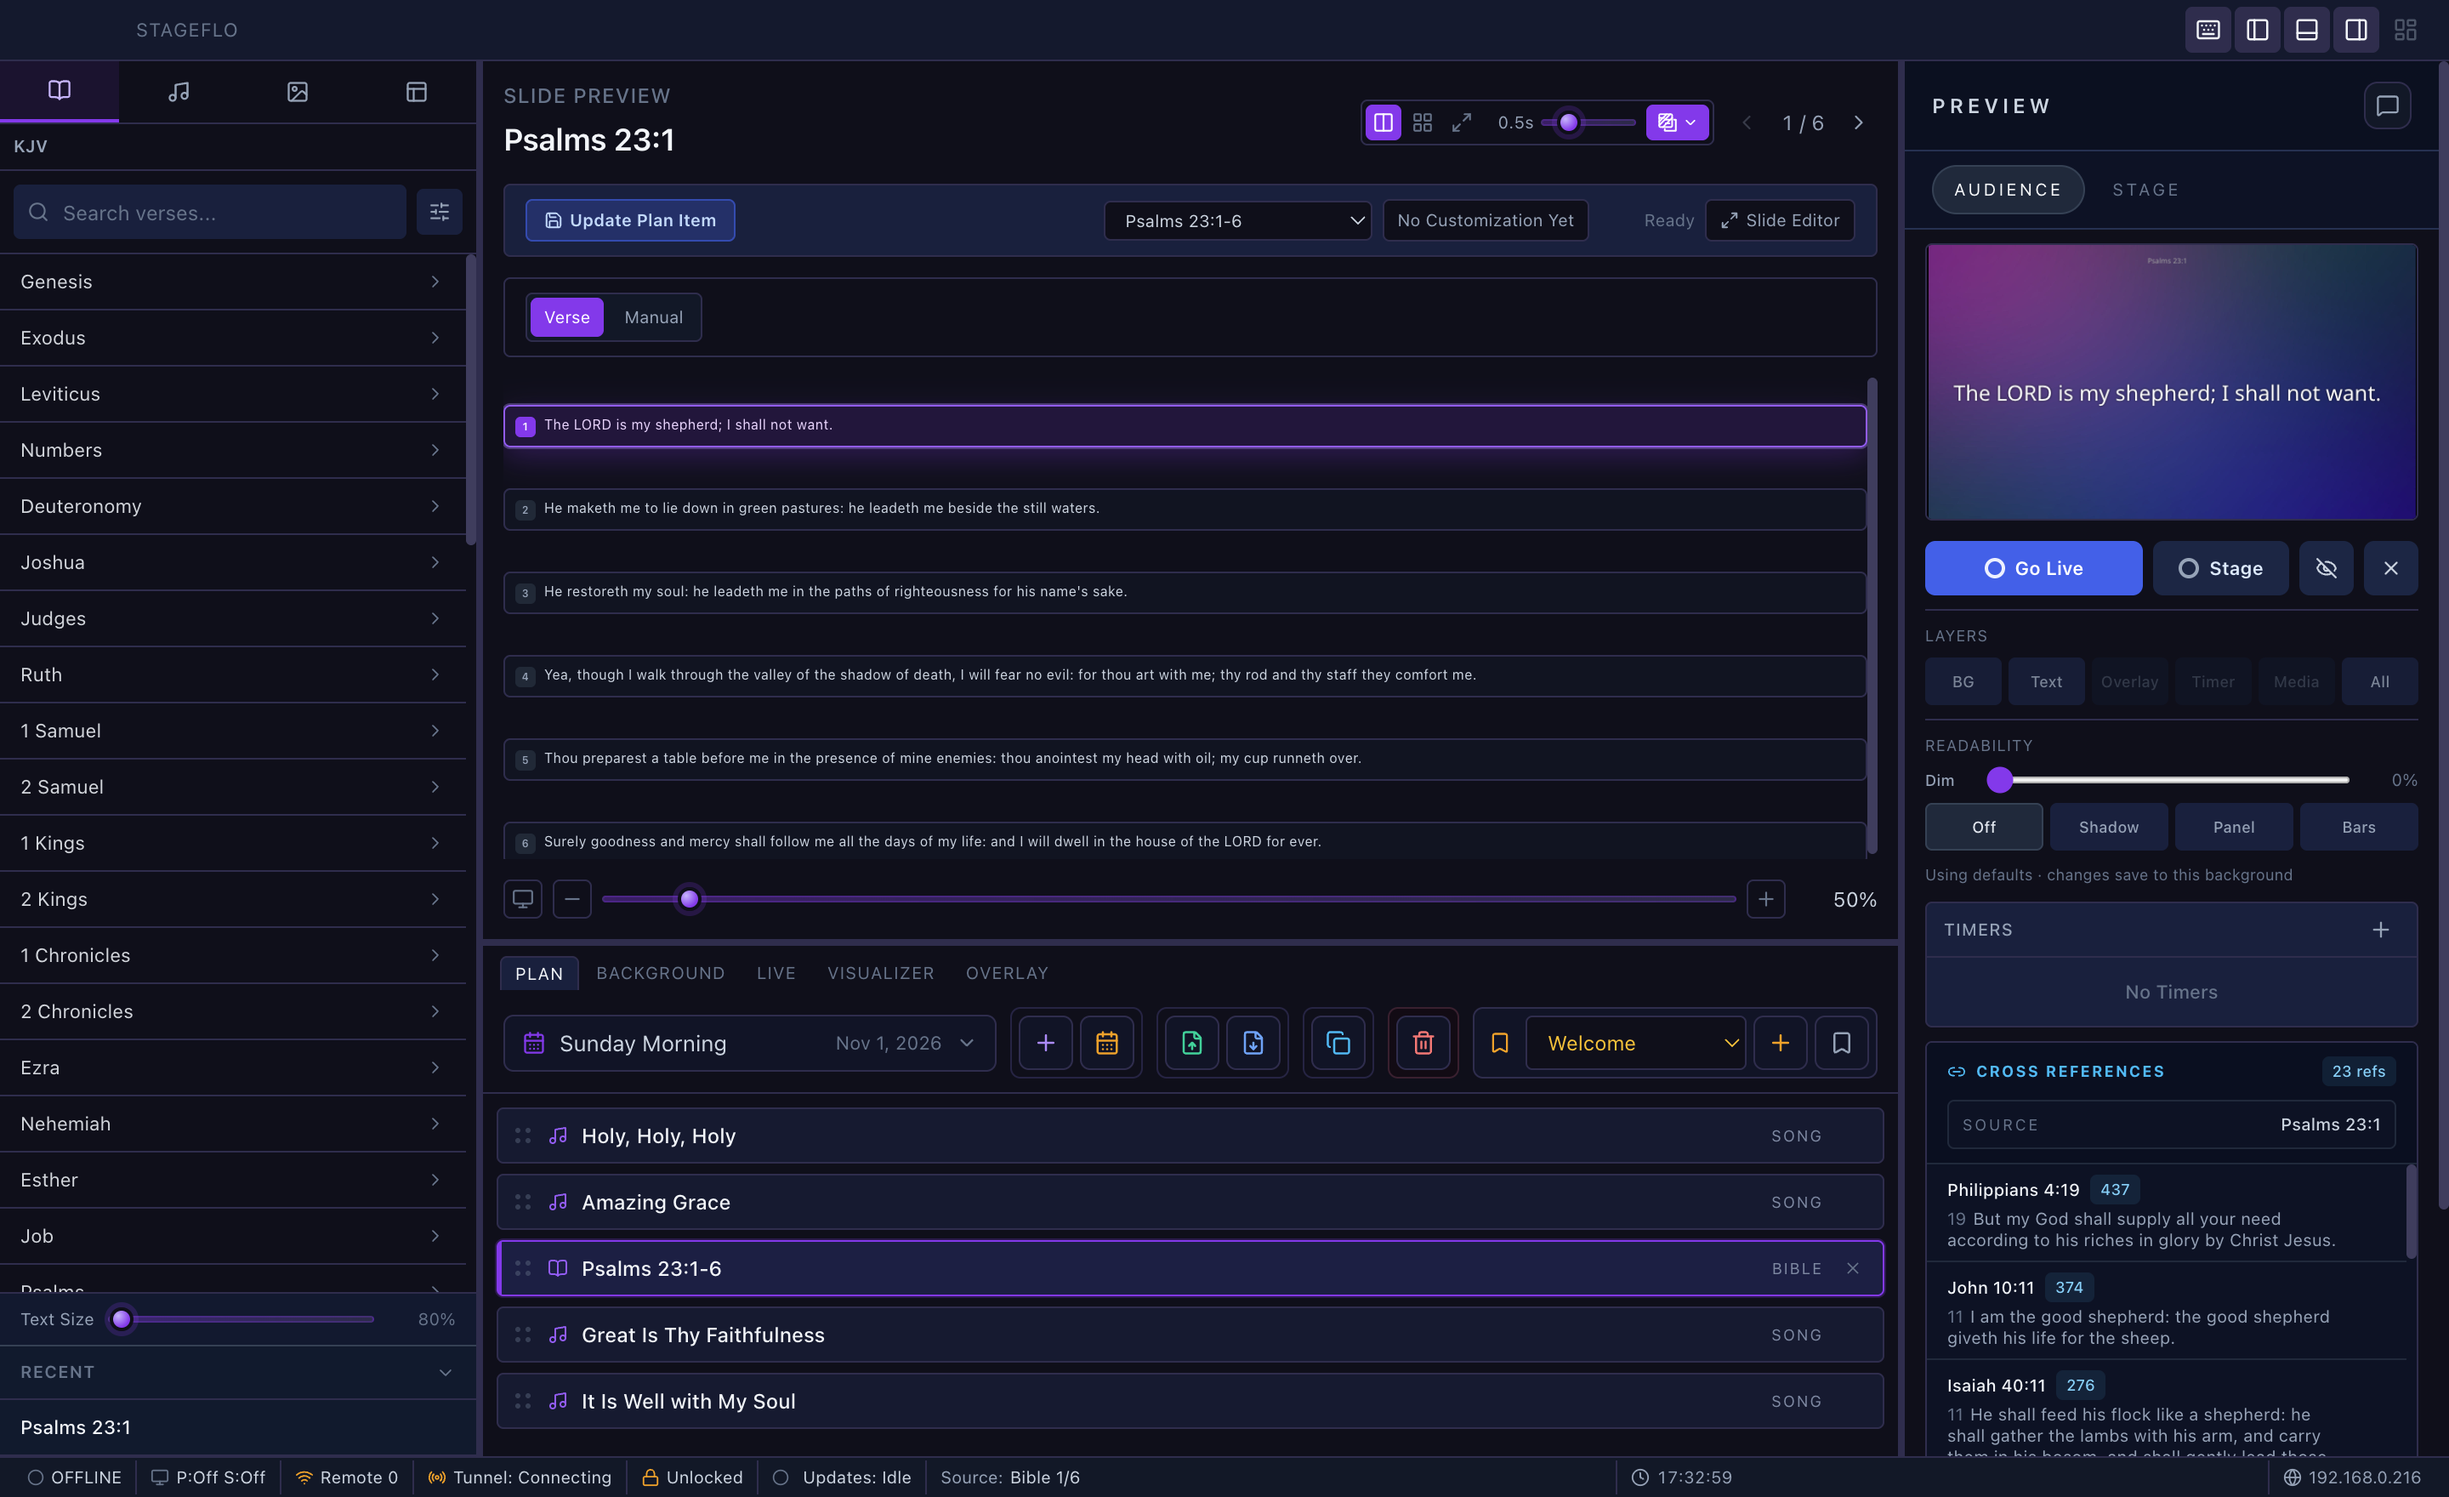
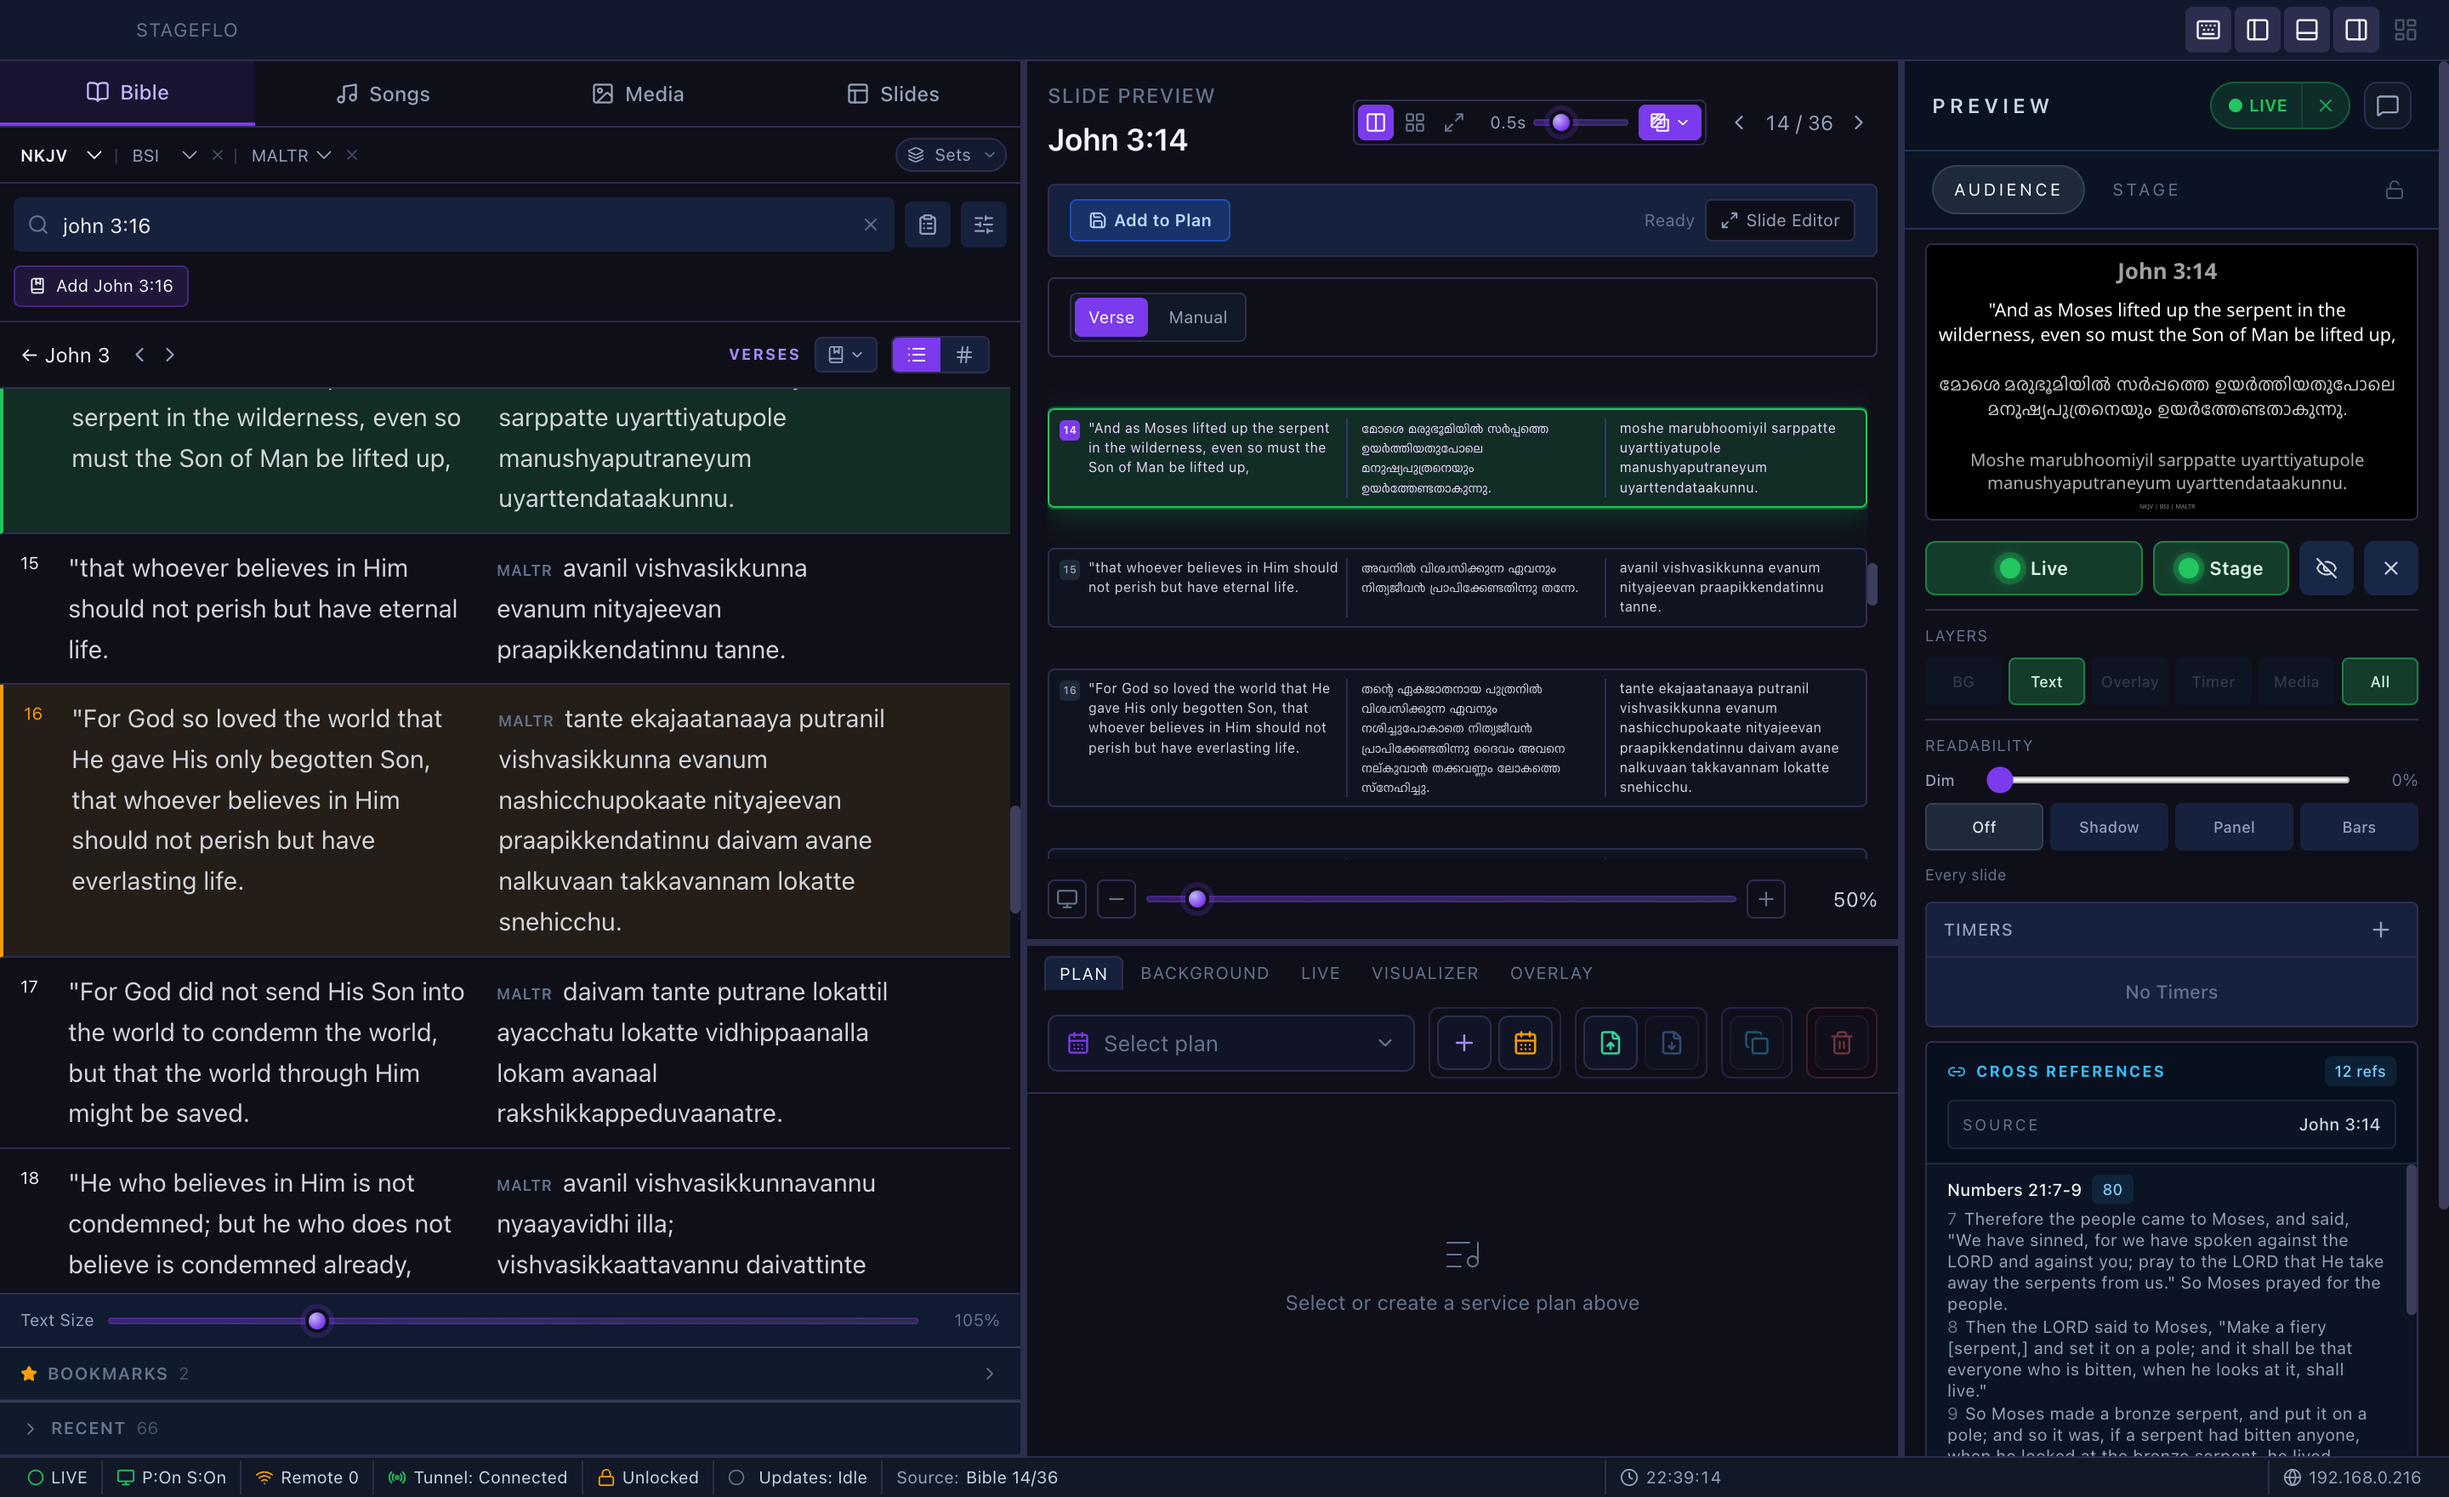
docs: new Bible panel, Word study and stage card screenshots

diff --git a/src/app/docs/introduction/page.tsx b/src/app/docs/introduction/page.tsx
@@ -275,8 +275,8 @@ export default function DocsIntroductionPage() {
             </ul>
             <Figure
               src="/screenshots/docs/bible.png"
-              alt="Psalm 23 open from the plan, with the audience preview and cross references."
-              caption="A Bible passage from the plan, with cross references under the preview."
+              alt="John 3 in the Bible panel with NKJV and MALTR side by side, and the chapter in the slide preview in three versions."
+              caption="A wide Bible panel shows your versions in columns. The slide preview holds the chapter, with cross references under the audience preview."
               width={2880}
               height={1760}
             />
@@ -300,6 +300,20 @@ export default function DocsIntroductionPage() {
               <li><strong>Add to plan</strong> — adds the verse to the plan with its words after it, shown as <strong>John 3:16 · ἀγαπάω</strong>, so words can be prepared before the service.</li>
               <li><strong>From the phone</strong> — tap <strong>⋯</strong> on a verse in the phone&apos;s Bible tab, then <strong>Word study</strong>. Tap a word, then <strong>Show</strong>, <strong>Stage</strong> or <strong>Back to verse</strong>.</li>
             </ul>
+            <Figure
+              src="/screenshots/docs/word-study.png"
+              alt="Word study for John 3:16 with loved selected: ἀγαπάω, agapáō, to love, with Preview, Show, Stage and Add to plan."
+              caption="Word study on John 3:16: the NKJV verse above the KJV&apos;s words, and ἀγαπάω with its meaning and the verses that use it."
+              width={2880}
+              height={1760}
+            />
+            <Figure
+              src="/screenshots/docs/stage-word-study.png"
+              alt="Stage display showing John 3:14 with a word study card for ἀγαπάω at the bottom."
+              caption="Stage sends the word to the stage display only, for the preacher."
+              width={1280}
+              height={720}
+            />
             <div className={styles.callout}>
               Sources: the KJV with Strong&apos;s numbers (public domain), Strong&apos;s Greek dictionary (CC0)
               and the Open Scriptures Hebrew lexicon (CC BY 4.0). A library backup remembers that word study
